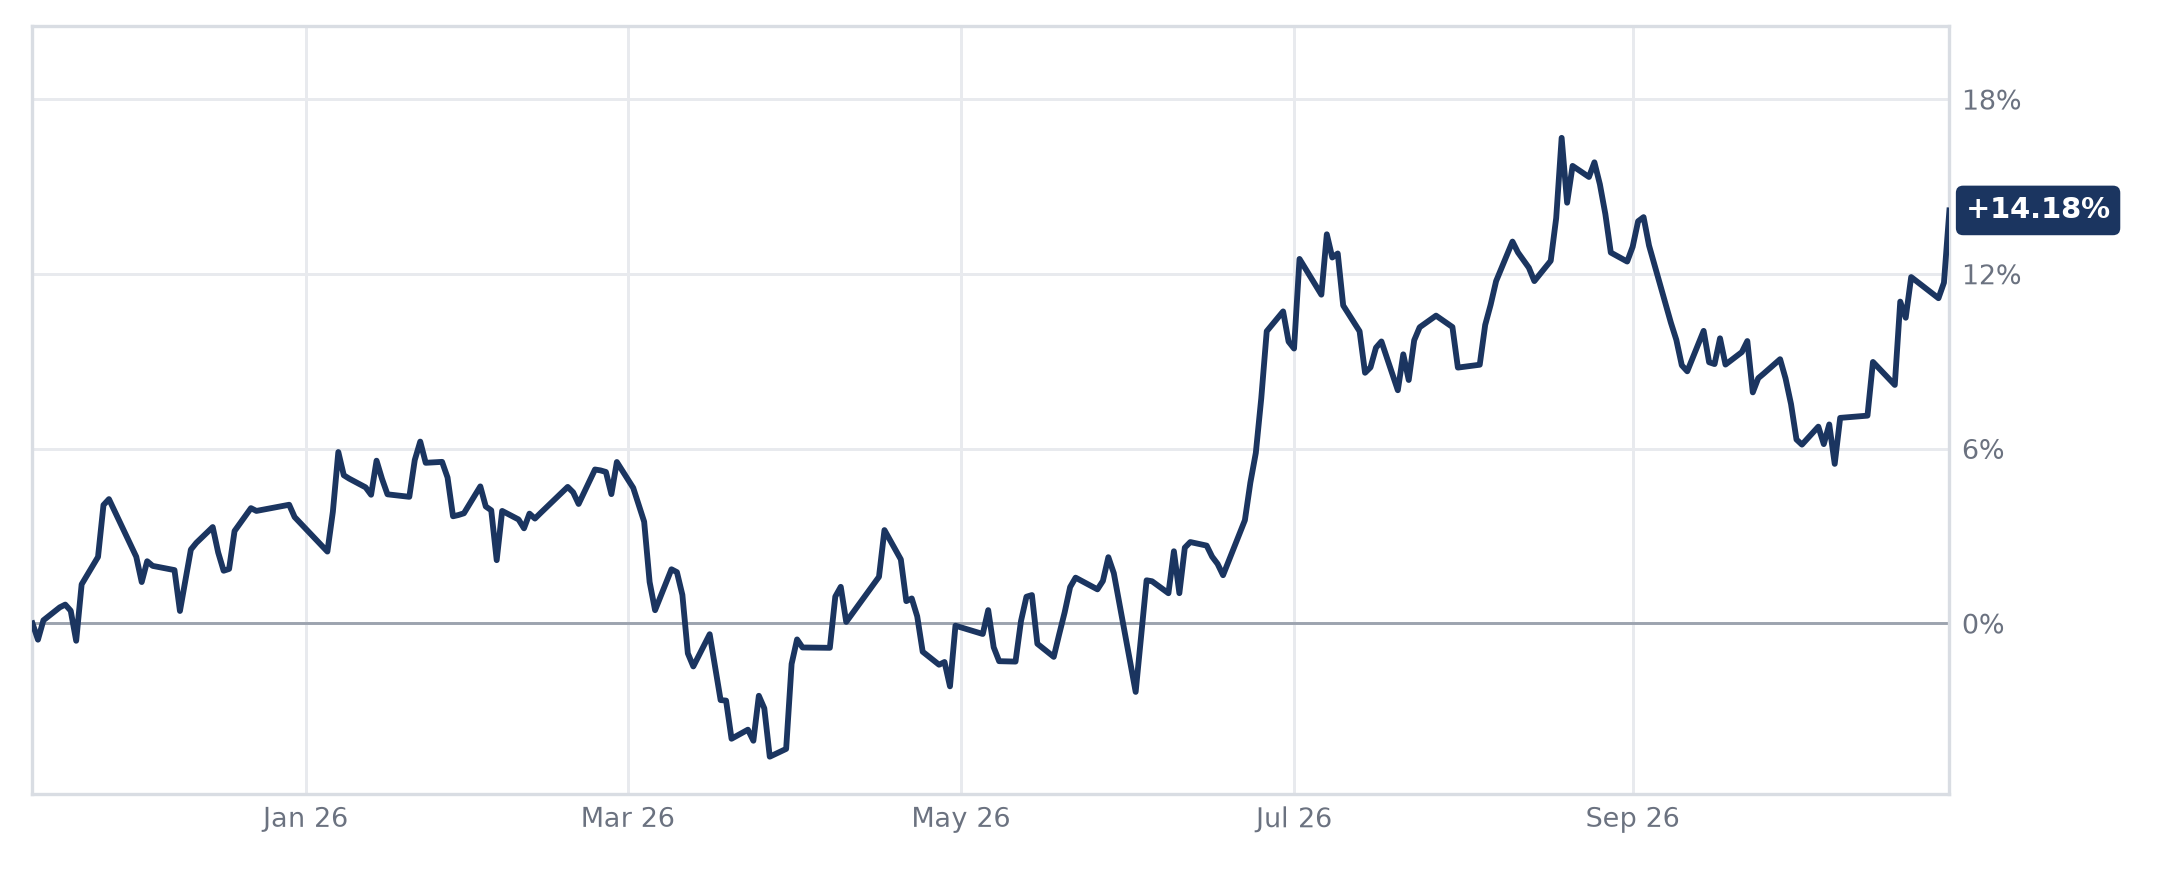
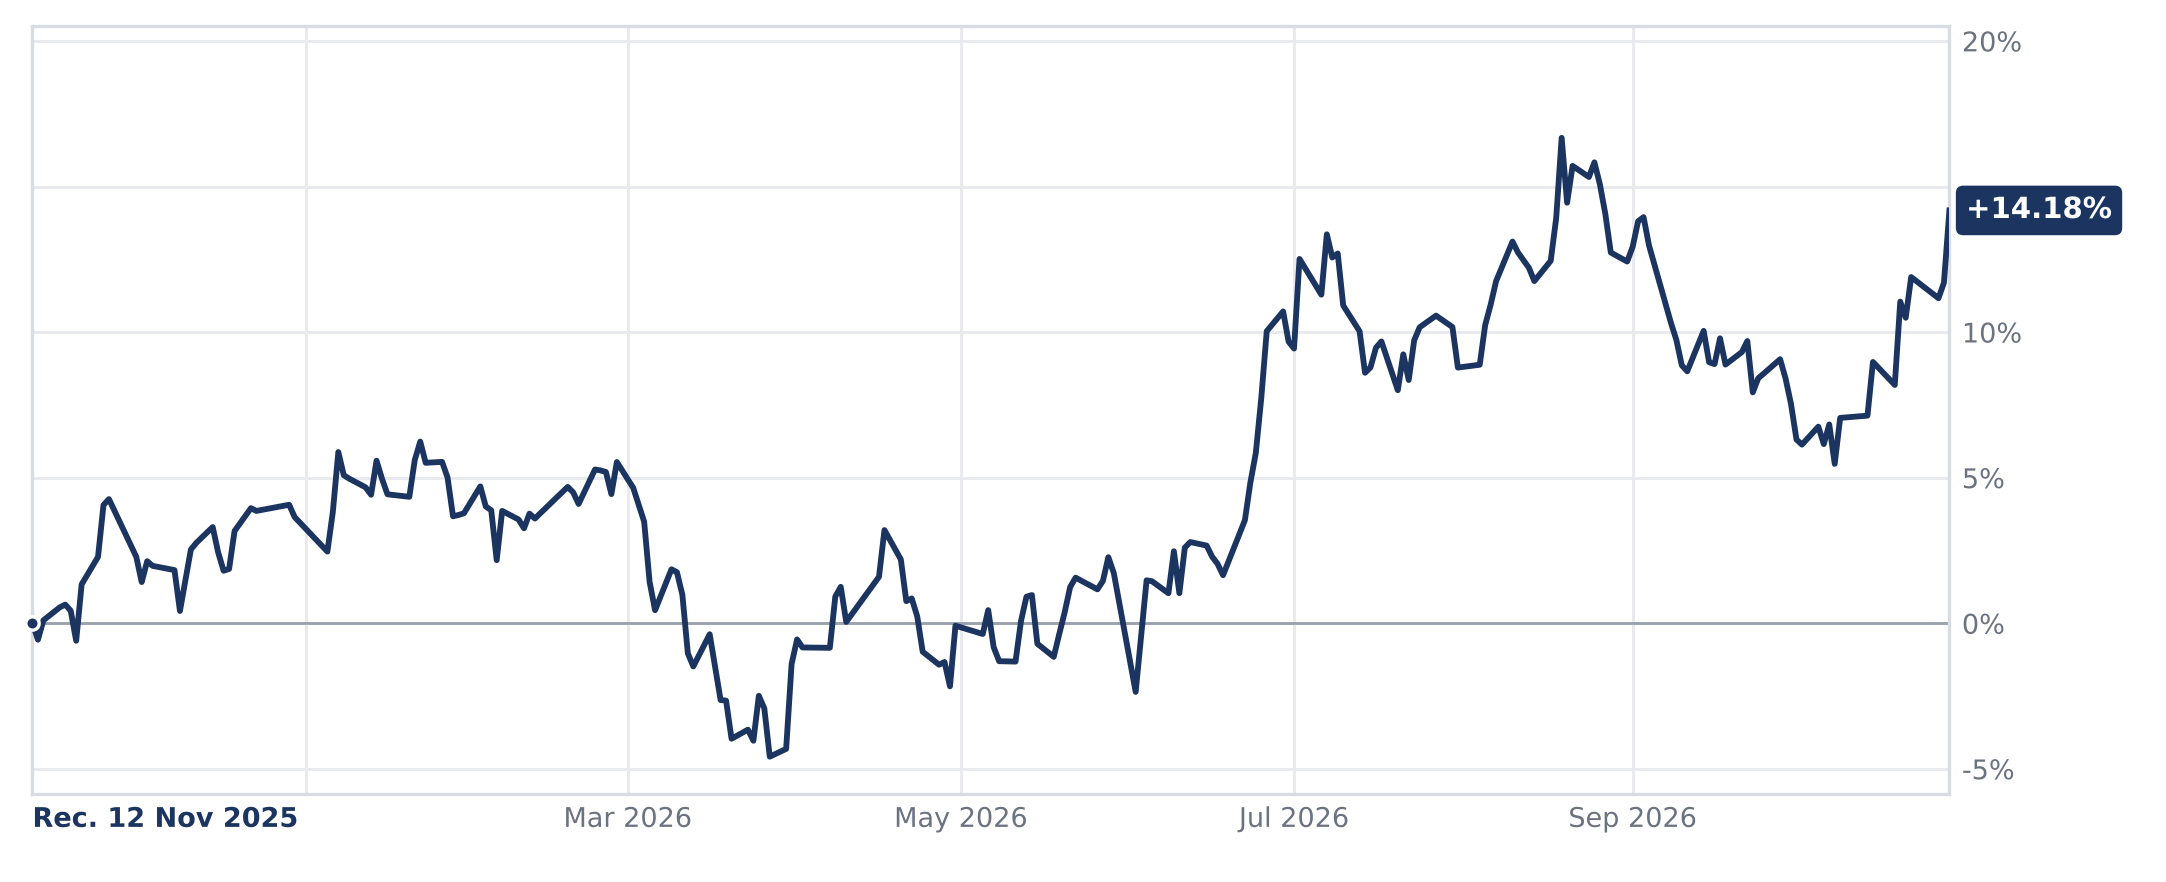
Chart readability: round y-grid, full-year x labels, recommend-date marker
- Y grid only on round steps (1/2/5/10%), fixes labels like -2.5% shown as "-2%"
- X axis month labels use full year ("Sep 2026") instead of "Sep 26"
- Dot at 0% plus "Rec. <date>" label at bottom-left of every chart
- Hide axis labels only when they actually overlap the value tag or start label
- Chart size and plot-area position unchanged (web overlay stays aligned)

Claude-Session: https://claude.ai/code/session_014QdRDR6VtSG4Pu4aKACLGk

diff --git a/scripts/build_charts.py b/scripts/build_charts.py
@@ -201,8 +201,10 @@ def draw(fund, series: dict, start: pd.Timestamp, path: Path):
 
     # แกน y ด้านขวา
     ax.yaxis.tick_right()
-    ax.yaxis.set_major_locator(matplotlib.ticker.MaxNLocator(5))
-    ax.yaxis.set_major_formatter(matplotlib.ticker.FuncFormatter(lambda v, _: f"{v:.0f}%"))
+    # grid ลงเลขกลมเท่านั้น (1/2/5/10…) — กันป้ายปัดเศษผิด เช่น -2.5% แสดงเป็น "-2%"
+    ax.yaxis.set_major_locator(matplotlib.ticker.MaxNLocator(7, steps=[1, 2, 5, 10]))
+    ax.yaxis.set_major_formatter(matplotlib.ticker.FuncFormatter(
+        lambda v, _: f"{v:.0f}%" if abs(v - round(v)) < 1e-9 else f"{v:g}%"))
 
     # แกน x ปรับตามช่วงเวลา
     span = (x_end - start).days
@@ -211,13 +213,13 @@ def draw(fund, series: dict, start: pd.Timestamp, path: Path):
         ax.xaxis.set_major_formatter(mdates.DateFormatter("%d %b"))
     elif span <= 200:
         ax.xaxis.set_major_locator(mdates.MonthLocator())
-        ax.xaxis.set_major_formatter(mdates.DateFormatter("%b %y"))
+        ax.xaxis.set_major_formatter(mdates.DateFormatter("%b %Y"))
     elif span <= 420:
         ax.xaxis.set_major_locator(mdates.MonthLocator(bymonth=(1, 3, 5, 7, 9, 11)))
-        ax.xaxis.set_major_formatter(mdates.DateFormatter("%b %y"))
+        ax.xaxis.set_major_formatter(mdates.DateFormatter("%b %Y"))
     else:
         ax.xaxis.set_major_locator(mdates.MonthLocator(bymonth=(1, 4, 7, 10)))
-        ax.xaxis.set_major_formatter(mdates.DateFormatter("%b %y"))
+        ax.xaxis.set_major_formatter(mdates.DateFormatter("%b %Y"))
     ax.tick_params(colors=MUTED, length=0, labelsize=6.5, pad=3)
     ax.set_xlim(start, x_end)
 
@@ -234,13 +236,28 @@ def draw(fund, series: dict, start: pd.Timestamp, path: Path):
                     fontsize=7, fontweight="bold", color="white", annotation_clip=False, zorder=10 + z,
                     bbox=dict(boxstyle="round,pad=0.35,rounding_size=0.25", fc=color, ec="none"))
 
-    # ซ่อนตัวเลขแกนที่ทับ tag
+    # จุดเริ่ม (วันแนะนำ) + ป้ายวันที่ใต้แกนซ้ายสุด
+    ax.plot([start], [0], marker="o", ms=3.2, color=NAVY, mec="white", mew=0.8,
+            zorder=6, clip_on=False)
+    lbl = f"Rec. {start.day} {start:%b %Y}"
+    start_txt = ax.annotate(lbl, xy=(0, 0), xycoords="axes fraction", xytext=(0, -3),
+                            textcoords="offset points", ha="left", va="top",
+                            fontsize=6.5, fontweight="bold", color=NAVY, annotation_clip=False)
+
+    # ซ่อนเฉพาะตัวเลขแกนที่ทับ tag / ป้ายวันแนะนำจริงๆ
+    fig.subplots_adjust(left=0.015, right=0.90, top=0.97, bottom=0.10)
     fig.canvas.draw()
-    for t, val in zip(ax.get_yticklabels(), ax.get_yticks()):
-        if any(abs(val - v) < rng * 0.09 for v, _, _ in tags):
+    r = fig.canvas.get_renderer()
+    tag_boxes = [c.get_bbox_patch().get_window_extent(r) for c in ax.texts if c.get_bbox_patch()]
+    for t in ax.get_yticklabels():
+        bb = t.get_window_extent(r).expanded(1.0, 1.3)
+        if any(bb.overlaps(b) for b in tag_boxes):
+            t.set_visible(False)
+    sb = start_txt.get_window_extent(r).expanded(1.15, 1.0)
+    for t in ax.get_xticklabels():
+        if t.get_text() and t.get_window_extent(r).overlaps(sb):
             t.set_visible(False)
 
-    fig.subplots_adjust(left=0.015, right=0.90, top=0.97, bottom=0.10)
     path.parent.mkdir(parents=True, exist_ok=True)
     fig.savefig(path, dpi=DPI, facecolor="white")
 
